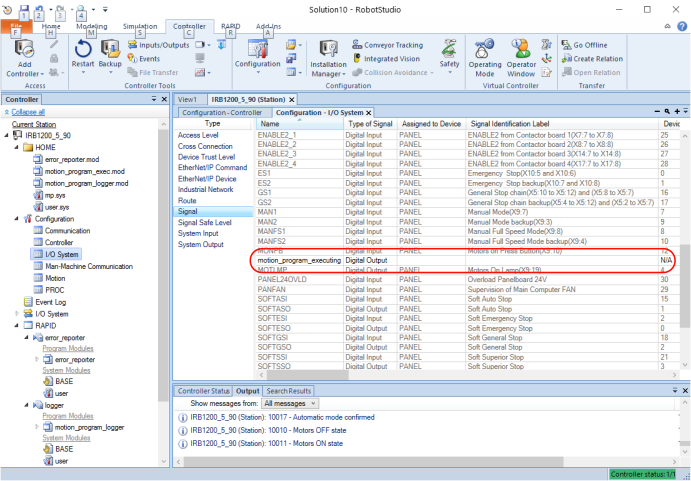
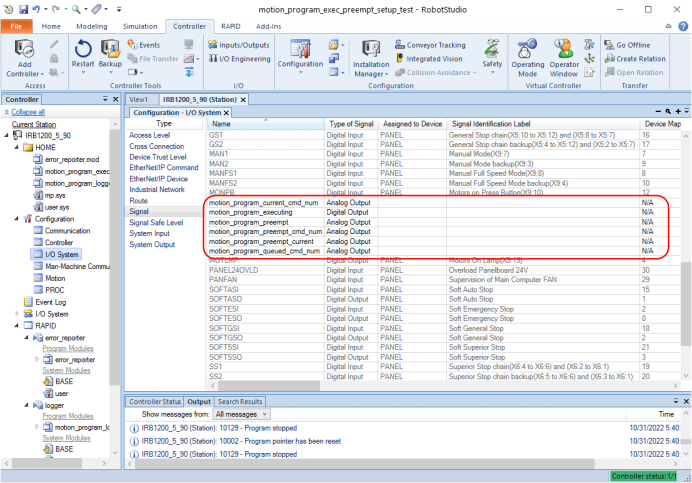
Add single robot motion program preemption support (#14)

diff --git a/abb_motion_program_exec_client.py b/abb_motion_program_exec_client.py
@@ -370,6 +370,21 @@ def _unpack_motion_program_result_log(b: bytes):
     data = data_flat.reshape((-1,len(headers)))
     return MotionProgramResultLog(timestamp_str, headers, data)
 
+def _get_motion_program_file(path: str, motion_program: "MotionProgram", task="T_ROB1", preempt_number=None):
+    b = motion_program.get_program_bytes()
+    assert len(b) > 0, "Motion program must not be empty"
+    ramdisk = path
+    filename = f"{ramdisk}/motion_program"
+    if task != "T_ROB1":
+        task_m = re.match(r"^.*[A-Za-z_](\d+)$",task)
+        if task_m:
+            filename_ind = int(task_m.group(1))
+            filename = f"{filename}{filename_ind}"
+    if preempt_number is not None:
+        filename = f"{filename}_p{preempt_number}"
+    filename = f"{filename}.bin"
+    return filename, b
+
 tool0 = tooldata(True,pose([0,0,0],[1,0,0,0]),loaddata(0.001,[0,0,0.001],[1,0,0,0],0,0,0))
 wobj0 = wobjdata(False, True, "", pose([0,0,0],[1,0,0,0]), pose([0,0,0],[1,0,0,0]))        
 
@@ -632,6 +647,15 @@ class MotionProgramExecClient:
         lvalue = '1' if bool(value) else '0'
         payload={'lvalue': lvalue}
         res=self._do_post("rw/iosystem/signals/" + network + "/" + unit + "/" + signal + "?action=set", payload)
+
+    def get_analog_io(self, signal, network='Local', unit='DRV_1'):
+        res_json = self._do_get("rw/iosystem/signals/" + network + "/" + unit + "/" + signal)
+        state = res_json["_embedded"]["_state"][0]["lvalue"]
+        return int(state)
+    
+    def set_analog_io(self, signal, value, network='Local', unit='DRV_1'):
+        payload={"mode": "value",'lvalue': value}
+        res=self._do_post("rw/iosystem/signals/" + network + "/" + unit + "/" + signal + "?action=set", payload)
     
     def get_rapid_variable(self, var):
         res_json = self._do_get("rw/rapid/symbol/data/RAPID/T_ROB1/" + var)
@@ -708,22 +732,35 @@ class MotionProgramExecClient:
         
         return o
 
-    def execute_motion_program(self, motion_program: MotionProgram, task="T_ROB1"):
-        b = motion_program.get_program_bytes()
-        assert len(b) > 0, "Motion program must not be empty"
-        ramdisk = self.get_ramdisk_path()
-        filename = f"{ramdisk}/motion_program.bin"
-        if task != "T_ROB1":
-            task_m = re.match(r"^.*[A-Za-z_](\d+)$",task)
-            if task_m:
-                filename_ind = int(task_m.group(1))
-                filename = f"{ramdisk}/motion_program{filename_ind}.bin"
+    def execute_motion_program(self, motion_program: MotionProgram, task="T_ROB1", wait : bool = True):
+        filename, b = _get_motion_program_file(self.get_ramdisk_path(), motion_program, task)
         def _upload():            
             self.upload_file(filename, b)
 
-        return self._execute_motion_program([task],_upload)
+        prev_seqnum = self._download_and_start_motion_program([task], _upload)
+        if not wait:
+            return prev_seqnum
+        self.wait_motion_program_complete()
+        return self.read_motion_program_result_log(prev_seqnum)
 
-    def execute_multimove_motion_program(self, motion_programs: List[MotionProgram], tasks=None):
+    def preempt_motion_program(self, motion_program: MotionProgram, task="T_ROB1", preempt_number: int = 1, 
+        preempt_cmdnum : int = -1):
+        filename, b = _get_motion_program_file(self.get_ramdisk_path(), motion_program, task, preempt_number)
+        self.upload_file(filename, b)
+        self.set_analog_io("motion_program_preempt_cmd_num", preempt_cmdnum)
+        self.set_analog_io("motion_program_preempt", preempt_number)
+
+    def get_current_cmdnum(self):
+        return self.get_analog_io("motion_program_current_cmd_num")
+
+    def get_queued_cmdnum(self):
+        return self.get_analog_io("motion_program_queued_cmd_num")
+
+    def get_current_preempt_number(self):
+        return self.get_analog_io("motion_program_preempt_current") 
+        
+
+    def execute_multimove_motion_program(self, motion_programs: List[MotionProgram], tasks=None, wait : bool = True):
 
         if tasks is None:
             tasks = [f"T_ROB{i+1}" for i in range(len(motion_programs))]        
@@ -734,28 +771,28 @@ class MotionProgramExecClient:
         assert len(tasks) > 1, "Multimove program must have at least two tasks"
 
         b = []
-        for mp in motion_programs:
-            b.append(mp.get_program_bytes())
-        assert len(b) > 0, "Motion program must not be empty"
         filenames = []
         ramdisk = self.get_ramdisk_path()
-        for task in tasks:
-            filename = f"{ramdisk}/motion_program.bin"
-            if task != "T_ROB1":
-                task_m = re.match(r"^.*[A-Za-z_](\d+)$",task)
-                if task_m:
-                    filename_ind = int(task_m.group(1))
-                    filename = f"{ramdisk}/motion_program{filename_ind}.bin"
-            filenames.append(filename)
 
+        for mp, task in zip(motion_programs, tasks):
+            filename1, b1 = _get_motion_program_file(ramdisk, mp, task)
+            filenames.append(filename1)
+            b.append(b1)
+
+        assert len(b) > 0, "Motion program must not be empty"
         assert len(filenames) == len(b)
         def _upload():
             for i in range(len(filenames)):
                 self.upload_file(filenames[i], b[i])
 
-        return self._execute_motion_program(tasks,_upload)
+        prev_seqnum = self._download_and_start_motion_program(tasks, _upload)
+        if not wait:
+            return prev_seqnum
+        self.wait_motion_program_complete()
+        return self.read_motion_program_result_log(prev_seqnum)
 
-    def _execute_motion_program(self, tasks, upload_fn: Callable[[],None]):
+    
+    def _download_and_start_motion_program(self, tasks, upload_fn: Callable[[],None]):
         
         exec_state = self.get_execution_state()
         assert exec_state.ctrlexecstate == "stopped"
@@ -768,13 +805,24 @@ class MotionProgramExecClient:
 
         self.resetpp()
         upload_fn()
-        
+
         self.start(cycle='once',tasks=tasks)
+
+        return prev_seqnum
+
+    def is_motion_program_running(self):
+        exec_state = self.get_execution_state()
+        return exec_state.ctrlexecstate == "running"
+
+    def wait_motion_program_complete(self):
+        
         while True:
             exec_state = self.get_execution_state()
             if exec_state.ctrlexecstate != "running":
                 break
             time.sleep(0.05)
+
+    def read_motion_program_result_log(self, prev_seqnum):
 
         log_after_raw = self.read_event_log()
         log_after = []
@@ -824,7 +872,6 @@ class MotionProgramExecClient:
         except:
             pass
         return _unpack_motion_program_result_log(log_contents)
-
 
         
 class ABBException(Exception):

diff --git a/examples/preempt_example.py b/examples/preempt_example.py
@@ -1,0 +1,82 @@
+# Single robot preemption example
+
+import abb_motion_program_exec_client as abb
+import time
+
+j1 = abb.jointtarget([10,20,30,40,50,60],[0]*6)
+j2 = abb.jointtarget([90,-91,60,-93,94,-95],[0]*6)
+j3 = abb.jointtarget([-80,81,-82,83,-84,85],[0]*6)
+
+my_tool = abb.tooldata(True,abb.pose([0,0,0.1],[1,0,0,0]),abb.loaddata(0.001,[0,0,0.001],[1,0,0,0],0,0,0)) 
+
+# mp is the nominal motion program
+
+mp = abb.MotionProgram(tool=my_tool)
+mp.MoveAbsJ(j2,abb.v5000,abb.fine)
+
+
+r1 = abb.robtarget([0.1649235*1e3, 0.1169957*1e3, 0.9502961*1e3], [ 0.6776466, -0.09003431, 0.6362069, 0.3576725 ], abb.confdata(0,0,0,0),[0]*6)
+r2 = abb.robtarget([ 0.6243948*1e3, -0.479558*1e3 ,  0.7073749*1e3], [ 0.6065634, -0.2193409,  0.6427138, -0.4133877], abb.confdata(-1,-1,0,1),[0]*6)
+
+r3 = abb.robtarget([417.9236, 276.9956, 885.2959], [ 0.8909725 , -0.1745558 ,  0.08864544,  0.4096832 ], abb.confdata( 0.,  1., -2.,  0.),[0]*6)
+r4 = abb.robtarget([417.9235 , -11.00438, 759.2958 ], [0.7161292 , 0.1868255 , 0.01720813, 0.6722789 ], abb.confdata( 0.,  2., -2.,  0.),[0]*6)
+r5 = abb.robtarget([ 417.9235, -173.0044,  876.2958], [0.6757616, 0.3854275, 0.2376617, 0.5816431], abb.confdata(-1.,  1., -1.,  0.),[0]*6)
+
+mp.MoveJ(r1,abb.v500,abb.fine)
+mp.MoveJ(r2,abb.v400,abb.fine)
+mp.MoveJ(r1,abb.v500,abb.z100)
+mp.MoveJ(r2,abb.v400,abb.z100)
+mp.MoveJ(r1,abb.v500,abb.fine)
+
+# Create preempting motion program. This may be generated in real time based on sensor feedback.
+# first_cmd_num must be one increment after preemption number
+
+mp_p1 = abb.MotionProgram(first_cmd_num=5)
+mp_p1.MoveJ(r3,abb.v5000,abb.fine)
+
+mp_p1.MoveC(r4,r5,abb.v200,abb.z10)
+mp_p1.MoveC(r4,r3,abb.v50,abb.fine)
+
+# Print out RAPID module of nominal motion program for debugging
+print(mp.get_program_rapid())
+
+# Execute the motion program on the robot
+# Change base_url to the robot IP address
+client = abb.MotionProgramExecClient(base_url="http://127.0.0.1:80")
+
+# Each preempting must have an incrementing preempt_number
+preempt_number = 1
+
+# Set wait=False so execute_motion_program returns immediately
+lognum = client.execute_motion_program(mp, wait=False)
+time.sleep(0.25)
+
+# Request preemption after command number 4
+client.preempt_motion_program(mp_p1, preempt_number=1, preempt_cmdnum=4)
+while client.is_motion_program_running():
+    # Currently executing command number
+    cmd_num = client.get_current_cmdnum()
+    # Current preemption number
+    preempt_num = client.get_current_preempt_number()
+    # Current command number that has been queued for execution
+    queued_num = client.get_queued_cmdnum()
+    print(f"preempt_num={preempt_num}, cmd_num={cmd_num}, queued_cmd_num={queued_num}")
+    time.sleep(0.05)
+
+# Read the results once motion program stops running
+log_results = client.read_motion_program_result_log(lognum)
+
+# log_results.data is a numpy array
+import matplotlib.pyplot as plt
+import matplotlib.ticker as plt_ticker
+fig, ax1 = plt.subplots()
+lns1 = ax1.plot(log_results.data[:,0], log_results.data[:,2:])
+ax1.set_xlabel("Time (s)")
+ax1.set_ylabel("Joint angle (deg)")
+ax2 = ax1.twinx()
+lns2 = ax2.plot(log_results.data[:,0], log_results.data[:,1], '-k')
+ax2.set_ylabel("Command number")
+ax2.set_yticks(range(-1,int(max(log_results.data[:,1]))+1))
+ax1.legend(lns1 + lns2, log_results.column_headers[2:] + ["cmdnum"])
+ax1.set_title("Joint motion")
+plt.show()
